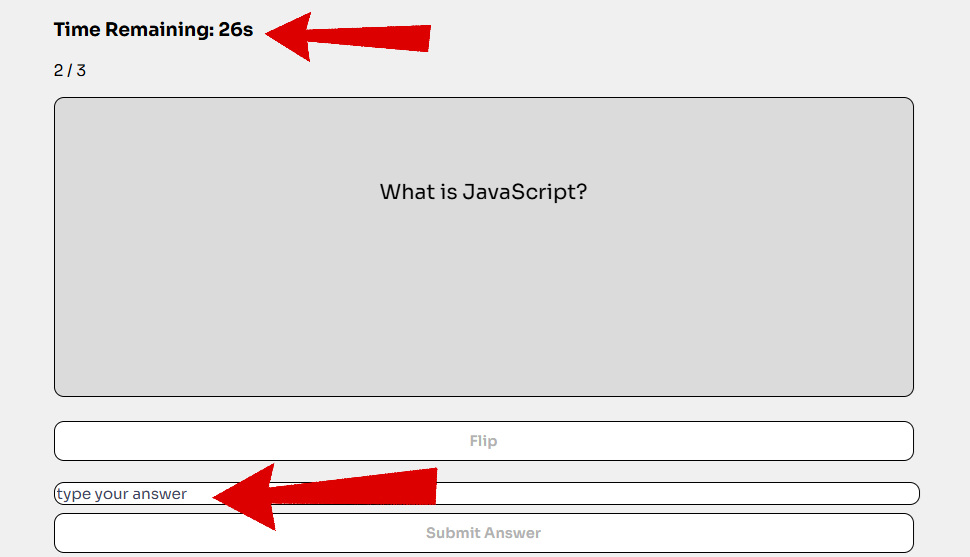
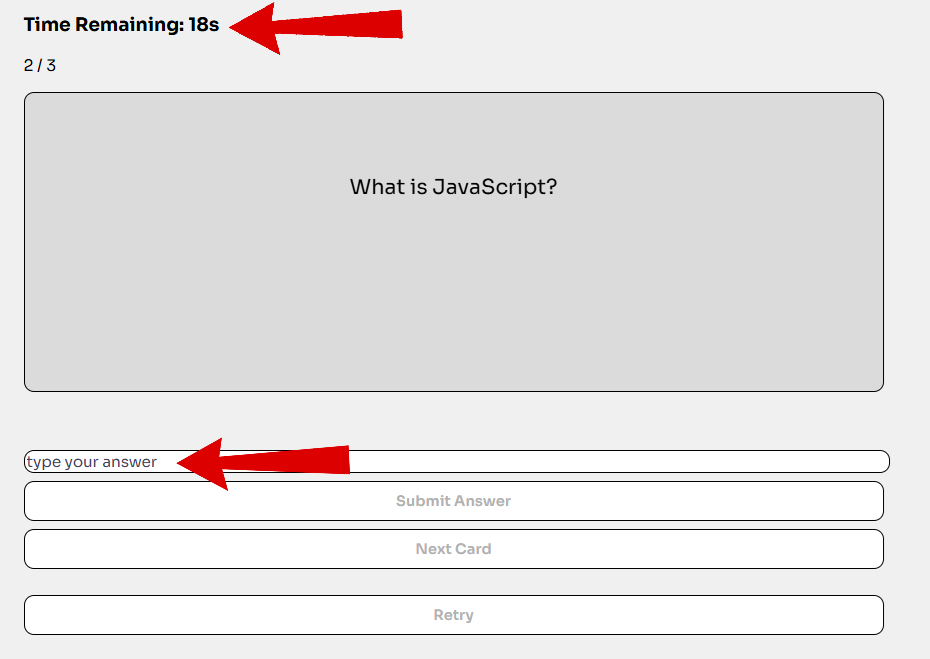
tutorial: updated time challenge images/dialogue

diff --git a/studbuds/src/main/resources/templates/tutorial.html b/studbuds/src/main/resources/templates/tutorial.html
@@ -142,7 +142,7 @@
             </div>
 
             <div class="mySlides fade">
-                <div class="text">If you get stuck, flip the card to see the answer or exit by clicking "Retry."</div>
+                <div class="text">If you get stuck you can exit by clicking "Retry."</div>
                 <br>
 
                 <img class = "tutorialImg" src="tutorial-imgs/timechallenge-example2.png" 
